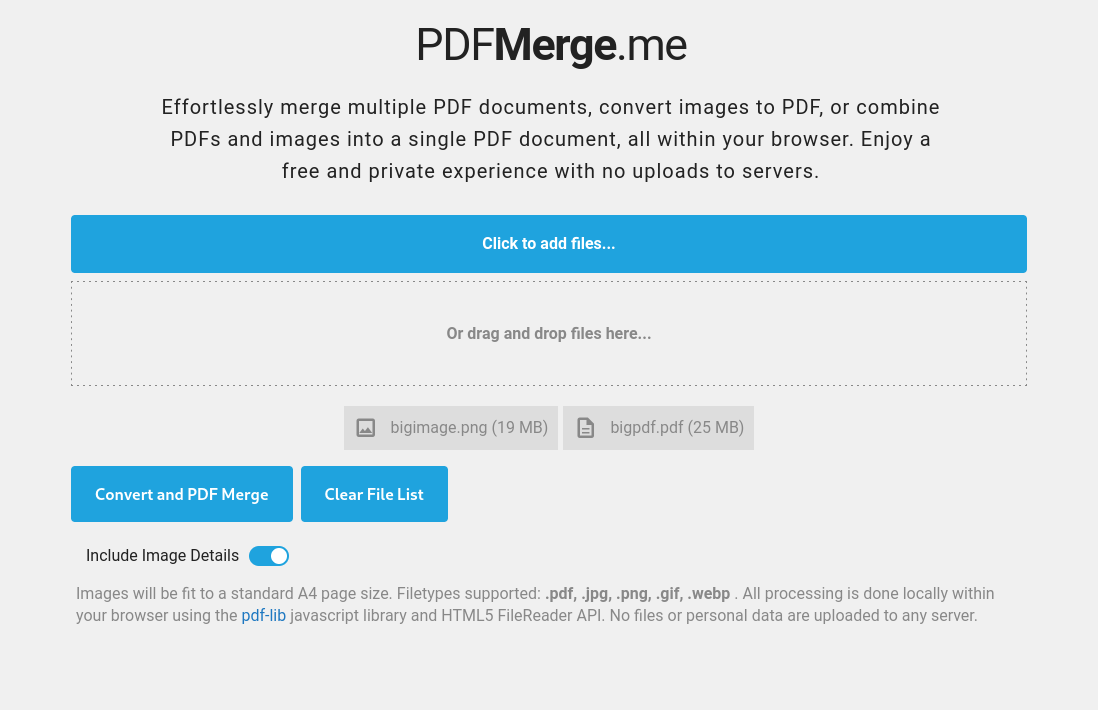
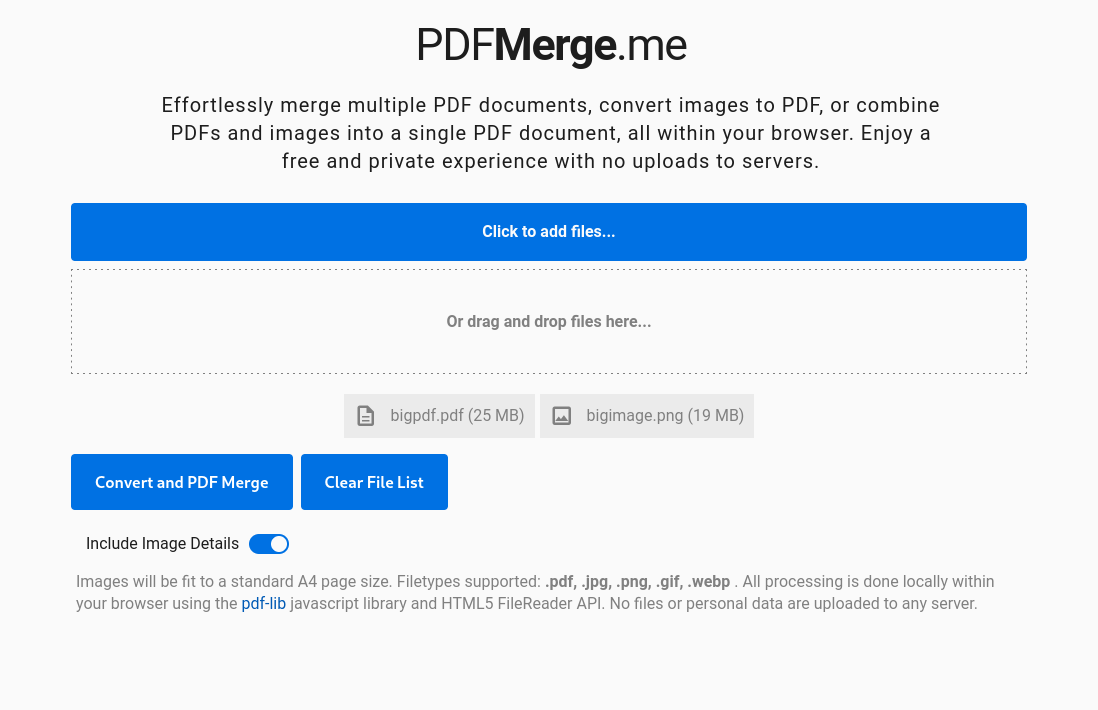
Minor appearance updates

diff --git a/css/pdfmerge.css b/css/pdfmerge.css
@@ -1,30 +1,25 @@
 :root {
-  --primary-color: #1fa3de;
-  --secondary-color: #1e78c1;
+  --primary-font-color: #1d1d1d;
+  --secondary-font-color: #727272;
+  --primary-color: #0071e3;
+  --secondary-color: #005ab5;
   --error-color: #c60000;
   --success-color: #4caf50;
-  --lighter-gray: #dddddd;
-  --light-gray: #888888;
-  --dark-gray: #222222;
-  --bg-color: #f0f0f0;
+  --lighter-gray: #ebebeb;
+  --light-gray: #bebebe;
+  --medium-gray: #808080;
+  --dark-gray: #1d1d1d;
+  --bg-color: #fafafa;
   --font-family: "Roboto", sans-serif;
   --base-font-size: 1em;
   --line-height: 1.4;
   --hero-font-size: 2.8em;
-  --hero-line-height: 1.6;
+  --hero-line-height: 1.4;
   --hero-letter-spacing: 0.05em;
   --button-padding: 18px 24px;
   --button-border-radius: 4px;
-  --link-font-color: #1e78c1;
-  --link-hover-color: #202020;
-  /* Select Dropdown */
-  --select-container-font-color: #202020;
-  --select-container-bg: linear-gradient(to bottom, #f9f9f9 0%, #e8e8e8 100%);
-  --select-option-font-color: #202020;
-  --select-option-bg: #ffffff;
-  --select-box-shadow: 0px 1px 3px 0px rgba(0, 0, 0, 0.2),
-    0px 1px 1px 0px rgba(0, 0, 0, 0.08), 0px 2px 1px -1px rgba(0, 0, 0, 0.04);
-  --select-arrow: #666666;
+  --link-font-color: #005ab5;
+  --link-hover-color: #1d1d1d;
 }
 
 *,
@@ -37,7 +32,7 @@ body {
   font-family: var(--font-family);
   margin: 0;
   padding: 15px;
-  color: var(--dark-gray);
+  color: var(--primary-font-color);
   background-color: var(--bg-color);
   font-size: var(--base-font-size);
   line-height: var(--line-height);
@@ -53,7 +48,7 @@ footer {
   margin-top: auto;
   padding: 15px;
   text-align: center;
-  color: var(--light-gray);
+  color: var(--secondary-font-color);
 }
 
 footer p {
@@ -113,7 +108,7 @@ a:hover {
 }
 
 .light-gray {
-  color: var(--light-gray);
+  color: var(--medium-gray);
 }
 
 .blue {
@@ -140,7 +135,7 @@ button[type="submit"] {
   text-align: center;
   display: inline-block;
   background-color: var(--primary-color);
-  color: #fff;
+  color: #ffffff;
   padding: var(--button-padding);
   border: none;
   border-radius: var(--button-border-radius);
@@ -148,11 +143,21 @@ button[type="submit"] {
   font-size: 1em;
 }
 
+/* Media query for small screens */
+@media (max-width: 768px) { /* Adjust the max-width as needed for your design */
+  .button,
+  button,
+  button[type="submit"] {
+    display: block; /* Change to block to take the full width */
+    width: 100%; /* Set width to 100% to fill the container */
+    margin: 4px 0; /* Adjust margin as needed */
+  }
+}
+
 .button:hover,
 button:hover,
 #file-upload-label:hover {
   background-color: var(--secondary-color);
-  color: var(--lighter-gray);
 }
 
 .button:active,
@@ -165,7 +170,7 @@ button:active {
 button[disabled],
 button[disabled]:hover {
   background-color: var(--lighter-gray);
-  color: #ffffff;
+  color: #fafafa;
   opacity: 0.65;
   cursor: not-allowed;
 }
@@ -193,20 +198,21 @@ button[disabled]:hover {
 
 #drop-area {
   margin: 8px 4px 8px 0;
-  border: 1px dashed var(--light-gray);
+  border: 1px dashed var(--medium-gray);
   padding: 30px;
   text-align: center;
   margin-bottom: 20px;
-  color: var(--light-gray);
+  color: var(--medium-gray);
 }
 
 #drop-area.drag {
-  border-color: var(--error-color);
+  border-color: var(--light-gray);
+  color: var(--light-gray);
 }
 
 #file-list {
   margin: 8px 4px 8px 0;
-  color: var(--light-gray);
+  color: var(--medium-gray);
   display: flex;
   justify-content: center;
 }
@@ -241,7 +247,7 @@ button[disabled]:hover {
   text-align: center;
   display: block;
   background-color: var(--primary-color);
-  color: #ffffff;
+  color: #fafafa;
   padding: var(--button-padding);
   border: none;
   border-radius: 4px;
@@ -253,7 +259,7 @@ button[disabled]:hover {
   font-weight: 600;
   text-align: center;
   background-color: var(--error-color);
-  color: #ffffff;
+  color: #fafafa;
   padding: var(--button-padding);
   display: none;
   border-radius: 4px;
@@ -277,7 +283,7 @@ button[disabled]:hover {
   font-weight: 600;
   text-align: center;
   background-color: var(--success-color);
-  color: #ffffff;
+  color: #fafafa;
   padding: var(--button-padding);
   display: none;
   border-radius: 4px;
@@ -286,70 +292,6 @@ button[disabled]:hover {
 .small {
   font-size: 0.8em;
   line-height: 1.3em;
-}
-
-/* select dropdown */
-
-.select-group {
-  display: flex;
-  flex-wrap: wrap;
-  justify-content: space-between;
-}
-
-.select-container {
-  flex-basis: 100%;
-  margin-bottom: 12px;
-}
-
-.select-container {
-  margin: 12px 0;
-  position: relative;
-  display: inline-block;
-  background: var(--select-container-bg);
-  border-radius: 3px;
-  overflow: hidden;
-  box-shadow: var(--select-box-shadow);
-}
-
-.select-container::after {
-  content: "\25BC";
-  position: absolute;
-  top: 50%;
-  right: 12px;
-  transform: translateY(-50%);
-  pointer-events: none;
-  font-size: 14px;
-  color: var(--select-arrow);
-  transition: transform 0.3s ease-in-out;
-}
-
-.select-container.open::after {
-  transform: translateY(-50%) rotate(-90deg);
-}
-
-.select-container select {
-  color: var(--select-container-font-color);
-  width: 100%;
-  -webkit-appearance: none;
-  -moz-appearance: none;
-  appearance: none;
-  background: transparent;
-  padding: 14px 30px 14px 16px;
-  border: none;
-  font-size: 14px;
-}
-
-.select-container select::-ms-expand {
-  display: none;
-}
-
-.select-container select option,
-.select-container select option:hover,
-.select-container select option:checked,
-.select-container select option:focus {
-  background: var(--select-option-bg);
-  color: var(--select-option-font-color);
-  padding: 10px;
 }
 
 /* Checkbox toggles */
@@ -396,7 +338,7 @@ button[disabled]:hover {
   left: 0;
   right: 0;
   bottom: 0;
-  background-color: #888888;
+  background-color: var(--medium-gray);
   transition: 0.4s;
   border-radius: 20px;
 }
@@ -408,7 +350,7 @@ button[disabled]:hover {
   width: 16px;
   left: 2px;
   bottom: 2px;
-  background-color: #ffffff;
+  background-color: #fafafa;
   transition: 0.4s;
   border-radius: 50%;
 }
@@ -459,4 +401,18 @@ li[draggable="true"] {
 
 .drag-over {
   border: none;
+}
+
+@keyframes flash-success {
+  0%, 100% {
+    background-color: var(--lighter-gray);
+  }
+  50% {
+    background-color: var(--success-color);
+    color: #ffffff;
+  }
+}
+
+.flash-success {
+  animation: flash-success 1s ease;
 }

diff --git a/js/pdfmerge.js b/js/pdfmerge.js
@@ -75,6 +75,7 @@ function updateSelectedFilesList() {
   const imageList = document.getElementById("selected-files-list");
   imageList.innerHTML = "";
 
+  // Iterate through selectedFiles array
   selectedFiles.forEach((file, index) => {
     const listItem = document.createElement("li");
     listItem.className = "flex-item";
@@ -86,19 +87,14 @@ function updateSelectedFilesList() {
     listItem.addEventListener("dragover", handleDragOver);
     listItem.addEventListener("drop", handleDrop);
 
-    // File icon
+    // Create a span for the file icon
     const iconSpan = document.createElement("span");
     iconSpan.className = "material-icons-outlined";
     iconSpan.style.marginRight = "8px";
     const fileExtension = file.name.split(".").pop().toLowerCase();
 
-    if (
-      fileExtension === "jpg" ||
-      fileExtension === "jpeg" ||
-      fileExtension === "webp" ||
-      fileExtension === "gif" ||
-      fileExtension === "png"
-    ) {
+    // Determine the icon based on the file extension
+    if (["jpg", "jpeg", "webp", "gif", "png"].includes(fileExtension)) {
       iconSpan.textContent = "image";
     } else if (fileExtension === "pdf") {
       iconSpan.textContent = "description";
@@ -112,9 +108,26 @@ function updateSelectedFilesList() {
     listItem.appendChild(iconSpan);
     listItem.appendChild(document.createTextNode(`${file.name} (${fileSize})`));
     imageList.appendChild(listItem);
+
     updateButtonVisibility();
   });
+
+  // Remove the "flash-success" class from all list items
+  const allListItems = imageList.querySelectorAll("li");
+  allListItems.forEach((item) => {
+    item.classList.remove("flash-success");
+  });
+
+  // Add the "flash-success" class to the last item
+  if (selectedFiles.length > 0) {
+    const lastListItem = document.getElementById(`file-${selectedFiles.length - 1}`);
+    if (lastListItem) {
+      lastListItem.classList.add("flash-success");
+    }
+  }
 }
+
+
 
 let draggedItemIndex = null;
 
@@ -139,8 +152,9 @@ function handleDrop(e) {
   }
 }
 
-// Event listener for file input change
 const fileInput = document.getElementById("file-input");
+
+// Event listener for file input change
 fileInput.addEventListener("change", () => {
   const newFiles = fileInput.files;
   for (let i = 0; i < newFiles.length; i++) {
@@ -184,6 +198,7 @@ dropArea.addEventListener("drop", (e) => {
   }
   updateSelectedFilesList();
 });
+
 
 function updateButtonVisibility() {
   const convertButton = document.getElementById("convert-button");

diff --git a/README.md b/README.md
@@ -1,5 +1,3 @@
-![Alt Text](android-chrome-192x192.png)
-
 # PDFMerge
 
 PDFMerge is a versatile web-based tool developed using JavaScript, HTML, and CSS, designed to merge PDFs and images into a single PDF document. Ideal for professionals, students, and anyone needing a reliable PDF merging solution, this tool processes files entirely on the client side, ensuring data privacy and eliminating the need for server uploads. Built on the robust [PDF-LIB.js](https://pdf-lib.js.org/) library, PDFMerge offers efficient PDF generation and manipulation. It also leverages the HTML5 FileReader API for image handling, with the option to include the original filename, SHA256 hash, and basic GPS and date EXIF details from photos at the top of each image page, thanks to [ExifReader](https://github.com/mattiasw/ExifReader).
